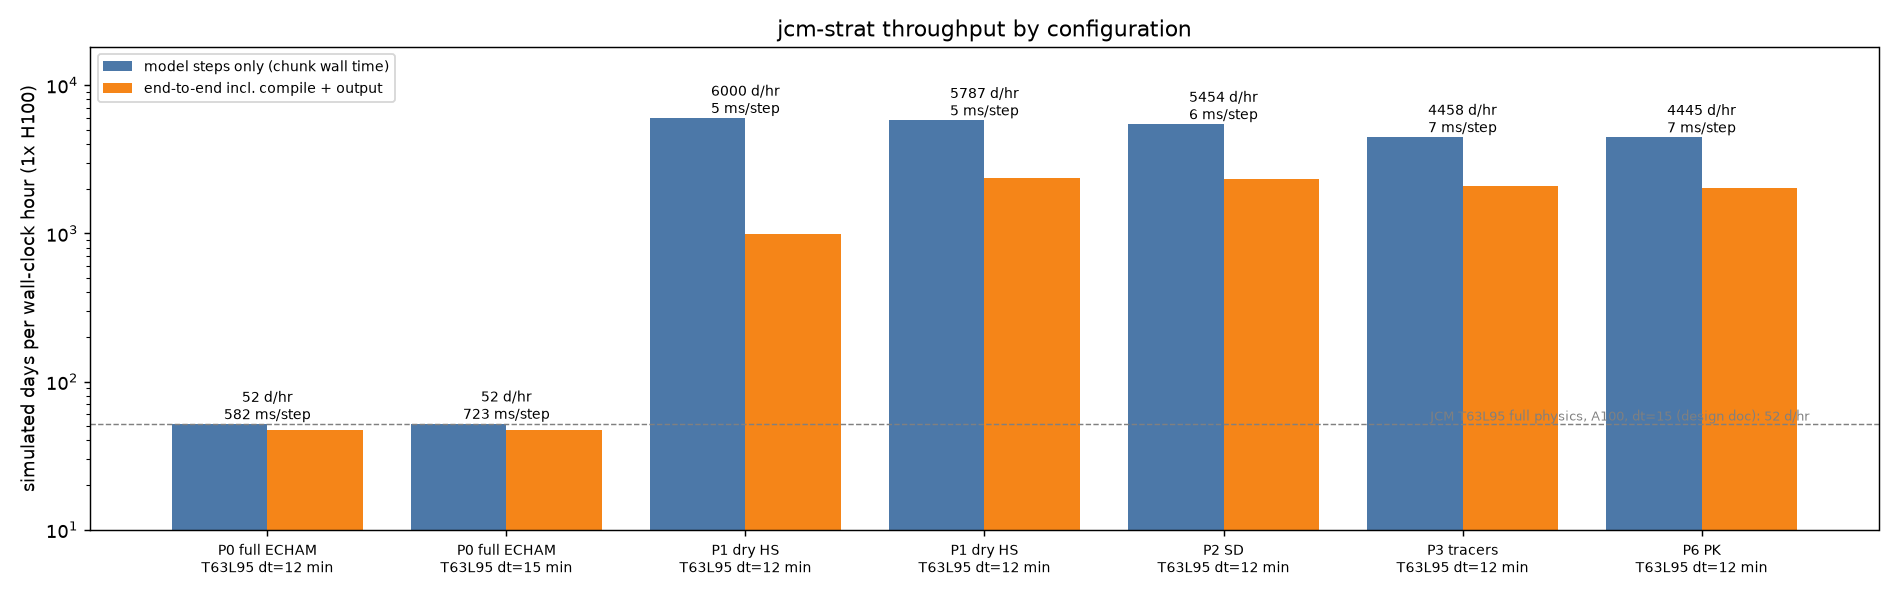
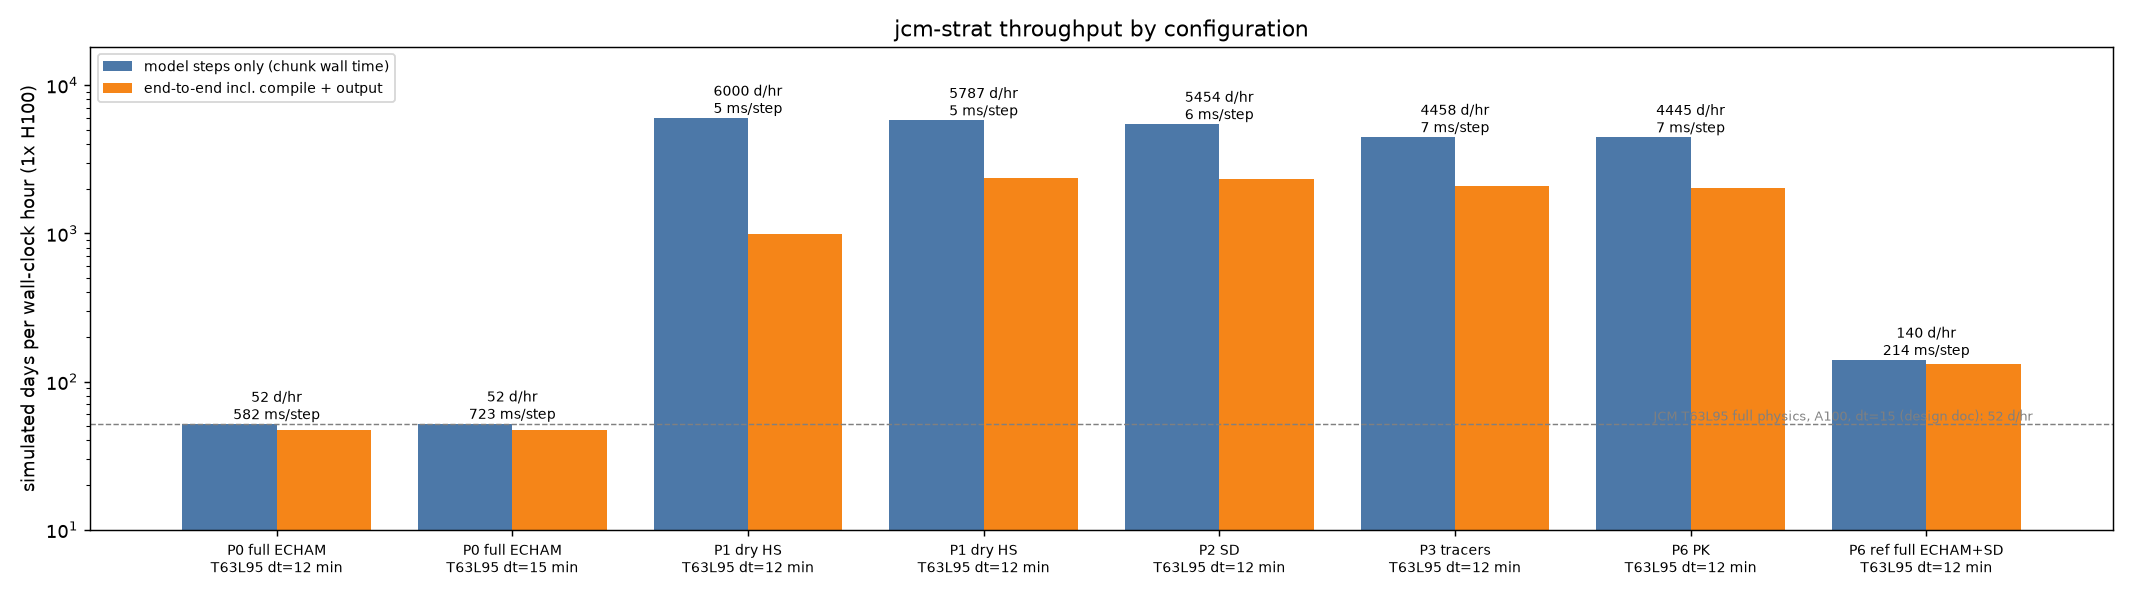
Phase 6 record: full-ECHAM specified-dynamics reference year (better T, no Arctic vortex, 9.7 m/s); throughput rows; record complete

diff --git a/docs/outputs/06_stratosphere/output.md b/docs/outputs/06_stratosphere/output.md
@@ -1,6 +1,6 @@
 # Phase 6 — a stratosphere without radiation: seasonal Polvani-Kushner
 
-Status: **A/B complete, configuration chosen, 5-year chain done** (2026-09-03); ECHAM reference pending. Branch `phase6-stratosphere` (worktree `jcm-strat-phase6`).
+Status: **complete** (2026-09-03): A/B, chosen configuration, 5-year chain, ECHAM reference. Branch `phase6-stratosphere` (worktree `jcm-strat-phase6`).
 
 ## Question this phase answers
 
@@ -46,14 +46,14 @@ time `tau_strat_days` is a separate knob (PK02 and Held-Suarez: 40 d).
 | `p6_pk_g4_t15_s05_top5` | strat_pk | 4 | 15 | 365 | + faded above 5 hPa |
 | `p6_pk_g4_t15_s05_top3` | strat_pk | 4 | 15 | 365 | **+ faded above 3 hPa — chosen; now the `strat_pk` defaults** |
 | `p6_2005` … `p6_2009` | strat_pk (chosen) | 4 | 15 | 5 x 365 | the 5-year chain with tracers (`chain_years.sh`, EXPERIMENT=p6_pk PREFIX=p6) |
-| `ref_echam_sd_2005` | echam (full) | - | - | 365 | reference, GPU 1 |
+| `ref_echam_sd_2005` | echam (full: RRTMGP, convection, clouds, TKE, surface, Hines + SSO) | - | - | 365 | reference, GPU 1, target 12-hourly; 140 sim days/hr (2.8 h) |
 | `p3_tracers_1yr` | strat_passive (Held-Suarez) | - | 40 | 365 | the Phase-3 baseline, for contrast |
 
 ## Acceptance (proposed in PLANS.md, PR 7)
 
 | check | threshold | result |
 |---|---|---|
-| zonal-mean T RMSE 100-1 hPa vs ERA5 | <= 5 K, and no worse than the ECHAM reference | **6.7 K annual** for the chosen run (Held-Suarez: 35 K); DJF 9.8 K is inflated by the January spin-up from the ERA5 initial state (see reading). ECHAM reference pending |
+| zonal-mean T RMSE 100-1 hPa vs ERA5 | <= 5 K, and no worse than the ECHAM reference | **6.7 K annual** for the chosen run, 6.4 K over 2005-2009 (Held-Suarez: 35 K); DJF 9.8 K is inflated by the January spin-up. **Not met against the ECHAM reference on temperature**: full ECHAM gets 4.3 K. Met on wind: 6.8 vs ECHAM's 9.7 m/s |
 | DJF u(60N, 10 hPa) vs ERA5 | within 10 m/s | **pass**: 38 vs 38 m/s |
 | JJA u(60S, 10 hPa) vs ERA5 | (added) within 20 percent | 66 vs 78 m/s (-15 percent) |
 | SSW winters 2005-2009 | >= 2 of 3 with a weakened vortex | **pass, 2 of 3**: ERA5 central dates 2006-01-21, 2007-02-24, 2008-02-22 (+03-14), 2009-01-24; the chain reverses on 2008-03-21 and 2009-02-05 (5-day means), misses 2006 and 2007. Held-Suarez chain: none |
@@ -196,5 +196,21 @@ tracers over 1826 d: unity max |q-1| 2.59e-4, burden drift +1.8e-4; sai -0.77 pe
    times too large (Phase 3: 0.001 was really 5e-6; the Phase-4 chain's 0.668 is really 0.003;
    this chain's 17.0 is 0.089). No verdict changes, but the Phase 4 record should be corrected.
 
+9. **Against JCM's own full physics, the analytic stratosphere wins on winds and loses on
+   temperature.** The full-ECHAM specified-dynamics year (`echam_ref/`) has the better temperature
+   climatology (4.3 K RMSE, 100-1 hPa) but almost no Arctic vortex: u(60N, 10 hPa) drops to
+   ~4 m/s in the first week of January 2005 and stays there through the following November and
+   December, when it should rebuild to 25-30 m/s, and the Antarctic jet peaks at 40-50 m/s
+   against ERA5's 80-100. Its wind RMSE is 9.7 m/s against the PK run's 6.8. Two caveats: its
+   nudging target is 12-hourly (memory), and one year is one year; but the missing Arctic
+   vortex in a run with radiation, Hines and orographic drag on suggests the full package's
+   gravity-wave drag or its radiation-plus-nudging balance deserves a look before it is used as
+   "the answer". It also runs at 140 simulated days/hour here (Phase 0 measured 52 with 5-day
+   chunks and hourly diagnostics), i.e. 32 times slower than the PK model.
+
+![ECHAM reference vortex](echam_ref/vortex_series.png)
+![ECHAM reference polar cap](echam_ref/polar_cap_T.png)
+![ECHAM reference climatology](echam_ref/strat_climatology_ECHAM_SD.png)
+
 Decision: `strat_pk` defaults = gamma 4 K/km, tau 15 d, season_offset 0.5, vortex cooling faded
-above 3 hPa (KEY_DECISIONS #19-#21). The ECHAM reference year (GPU 1) is added when it finishes.
+above 3 hPa (KEY_DECISIONS #19-#21). Phase 7 (time-step sweep) runs on this configuration.

diff --git a/PROGRESS.md b/PROGRESS.md
@@ -4,7 +4,7 @@ Newest first. Each row links to the per-phase record in `docs/outputs/`.
 
 | Date | Phase | State | Record |
 |---|---|---|---|
-| 2026-09-03 | 6 — stratosphere without radiation (Polvani-Kushner, seasonal) | A/B of 8 configurations done, choice fixed as `strat_pk` defaults; 5-year chain done (6.4 K / 5.6 m/s vs ERA5, 2 of 3 SSW winters, AoA pattern vs CLaMS); ECHAM reference running | [docs/outputs/06_stratosphere/output.md](docs/outputs/06_stratosphere/output.md) |
+| 2026-09-03 | 6 — stratosphere without radiation (Polvani-Kushner, seasonal) | A/B of 8 configurations done, choice fixed as `strat_pk` defaults; **done**: 5-year chain (6.4 K / 5.6 m/s vs ERA5, 2 of 3 SSW winters, AoA pattern vs CLaMS); full-ECHAM reference year: better T (4.3 K) but no Arctic vortex and 9.7 m/s | [docs/outputs/06_stratosphere/output.md](docs/outputs/06_stratosphere/output.md) |
 | 2026-09-03 | 3 — passive tracers | **done**: aoa/unity/sai/e90 term, 1-yr run 2005, all acceptance checks pass; mass-fixer/clock interaction found and fixed | [docs/outputs/03_tracers/output.md](docs/outputs/03_tracers/output.md) |
 | 2026-09-03 | 2 — specified dynamics | runs done (90 d check, 1-yr 2005), PR open | [docs/outputs/02_nudged/output.md](docs/outputs/02_nudged/output.md) |
 | 2026-09-02 | 1 — stripped dry model | run done (1-yr HS), PR open | [docs/outputs/01_dry/output.md](docs/outputs/01_dry/output.md) |
@@ -23,6 +23,7 @@ Simulated days per wall-clock hour, one H100 (GPU 0), `run=longrun` unless state
 | 2 | P2 SD | T63L95 | 12 | 5454.5 (e2e 2326) | 6 | `p2_sd_1yr` | 2026-09-03 |
 | 3 | P3 SD + passive tracers (aoa, unity, sai, e90) | T63L95 | 12 | 4458.4 (e2e 2082) | 7 | `p3_tracers_1yr` | 2026-09-03 |
 | 6 | P6 SD + tracers + Polvani-Kushner stratosphere | T63L95 | 12 | 4445.3 (e2e 2012) | 7 | `p6_pk_g4_t15_s05_top3` | 2026-09-03 |
+| 6 | reference: full ECHAM physics + SD nudging (12 h target), GPU 1 | T63L95 | 12 | 139.9 (e2e 131) | 214 | `ref_echam_sd_2005` | 2026-09-03 |
 
 (e2e = end-to-end incl. compile and output writing.) Reference from upstream (A100-40GB, `docs/source/design/dinosaur_sl_jam_configuration.md` in
 JCM): T63L47 full science 115 days/hr at dt=15 min; T63L95 full science 52 days/hr.

diff --git a/docs/outputs/06_stratosphere/echam_ref/strat_metrics.md b/docs/outputs/06_stratosphere/echam_ref/strat_metrics.md
@@ -1,0 +1,25 @@
+| run | ref | season | RMSE T 100-1 hPa [K] | RMSE u 100-1 hPa [m/s] | u(60N,10hPa) DJF [m/s] | u(60S,10hPa) JJA [m/s] |
+|---|---|---|---|---|---|---|
+| ECHAM_SD | ERA5 | DJF | 6.8 | 14.9 | 4 (ref 38) | -15 (ref -9) |
+| ECHAM_SD | ERA5 | JJA | 6.3 | 17.6 | -1 (ref -9) | 40 (ref 78) |
+| ECHAM_SD | ERA5 | annual | 4.3 | 9.7 | 1 (ref 11) | 15 (ref 33) |
+| ECHAM_SD | WACCM6 | DJF | 5.0 | 10.4 | 4 (ref 21) | -15 (ref 2) |
+| ECHAM_SD | WACCM6 | JJA | 5.1 | 14.6 | -1 (ref -6) | 40 (ref 69) |
+| ECHAM_SD | WACCM6 | annual | 3.5 | 9.7 | 1 (ref 8) | 15 (ref 39) |
+| PK_chosen | ERA5 | DJF | 9.8 | 11.9 | 38 (ref 38) | -0 (ref -9) |
+| PK_chosen | ERA5 | JJA | 8.1 | 11.6 | -1 (ref -9) | 66 (ref 78) |
+| PK_chosen | ERA5 | annual | 6.7 | 6.8 | 16 (ref 11) | 29 (ref 33) |
+| PK_chosen | WACCM6 | DJF | 9.3 | 9.8 | 38 (ref 21) | -0 (ref 2) |
+| PK_chosen | WACCM6 | JJA | 8.0 | 8.8 | -1 (ref -6) | 66 (ref 69) |
+| PK_chosen | WACCM6 | annual | 6.4 | 6.5 | 16 (ref 8) | 29 (ref 39) |
+| P3_HS | ERA5 | DJF | 34.6 | 18.1 | 4 (ref 38) | -5 (ref -9) |
+| P3_HS | ERA5 | JJA | 36.3 | 25.4 | -4 (ref -9) | 10 (ref 78) |
+| P3_HS | ERA5 | annual | 35.2 | 13.0 | -2 (ref 11) | 4 (ref 33) |
+| P3_HS | WACCM6 | DJF | 33.4 | 15.1 | 4 (ref 21) | -5 (ref 2) |
+| P3_HS | WACCM6 | JJA | 35.0 | 22.6 | -4 (ref -6) | 10 (ref 69) |
+| P3_HS | WACCM6 | annual | 34.1 | 13.7 | -2 (ref 8) | 4 (ref 39) |
+
+ERA5 SSW central dates (60N, 10 hPa reversal, Nov-Mar, not final warmings): none / no daily ERA5
+ECHAM_SD SSW-like reversals (5-day means, +-5 d): none
+PK_chosen SSW-like reversals (5-day means, +-5 d): 2005-03-22
+P3_HS SSW-like reversals (5-day means, +-5 d): none

diff --git a/DEFERRED.md b/DEFERRED.md
@@ -34,3 +34,4 @@ of [PLANS.md](PLANS.md) is complete. Ordered by value.
 | Spin-up of the upper stratosphere from the ERA5 initial state (no information above 50 hPa) | feature | Start comparisons after a 1-2 month spin-up, or initialise the stratosphere from the PK equilibrium. |
 | Internal variability vs relaxation time: SSW frequency at tau 15 vs 25 over 2005-2009 | research | Needs the 5-year chains; decides whether tau 15 is too stiff for the wave-driven variability. |
 | Winter pole above 10 hPa 20-30 K too warm with the 3 hPa taper | feature | The taper hands the cap back to the standard atmosphere, whose 1-3 hPa values are summer ones; a colder winter stratopause target (or a taper to a winter profile) is needed. |
+| Full-ECHAM specified-dynamics year has no Arctic vortex (u(60N,10hPa) ~4 m/s all year) and a half-strength Antarctic one | research | Check Hines/SSO drag strength and the radiation + nudging balance in the stock package before using it as the reference stratosphere; rerun with a 6 h target once memory allows. |
